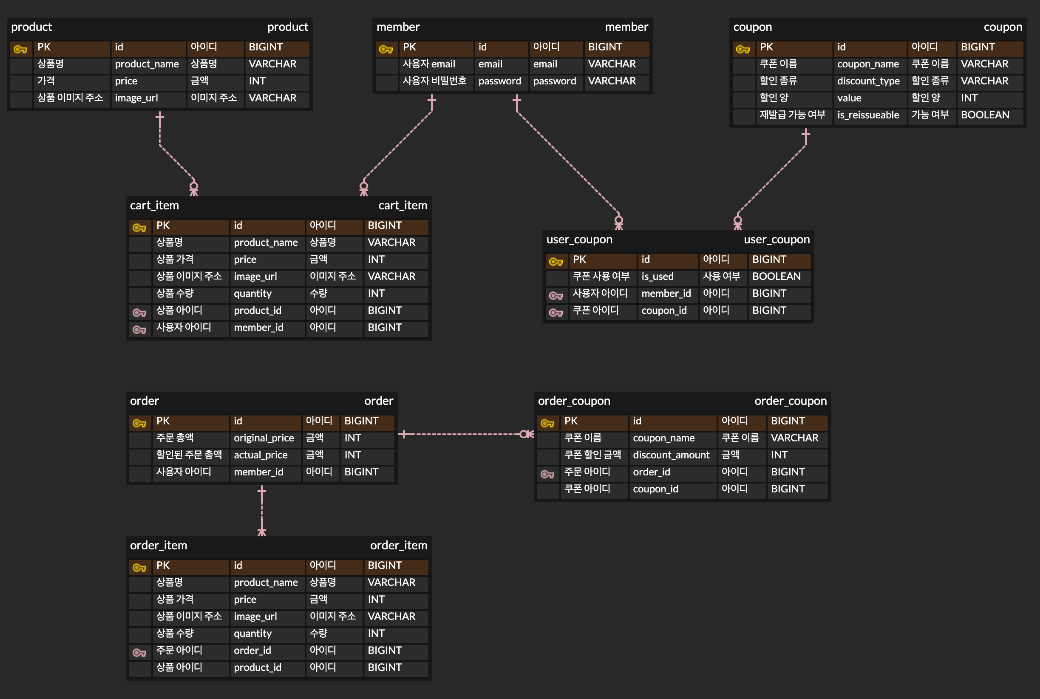
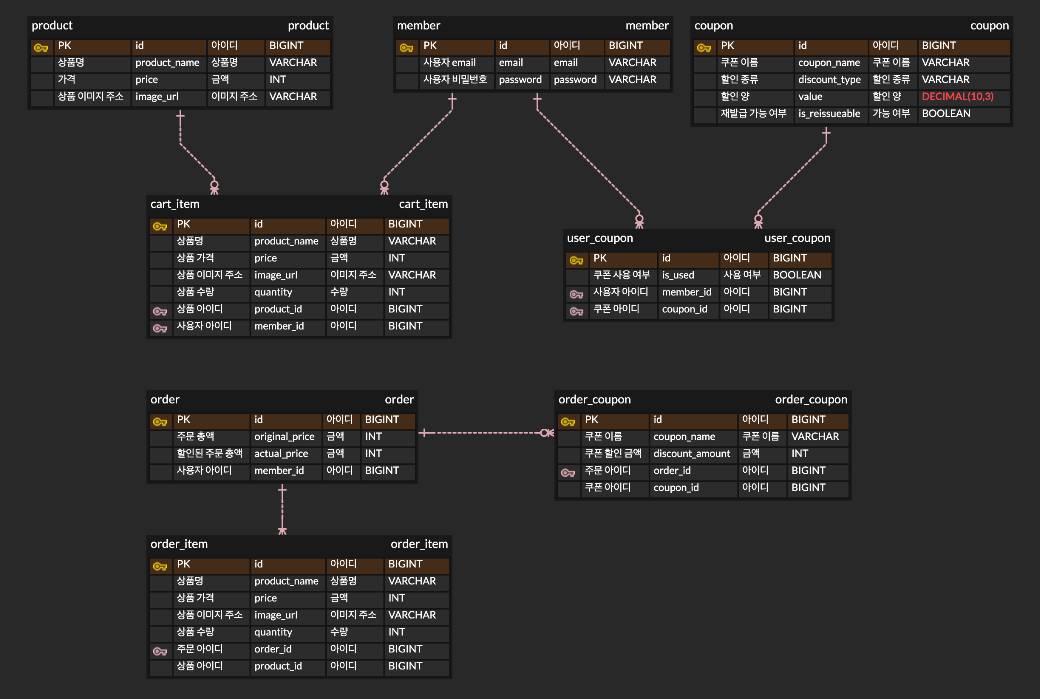
feat: 할인 쿠폰 구현

diff --git a/src/main/java/cart/domain/coupon/Coupon.java b/src/main/java/cart/domain/coupon/Coupon.java
@@ -1,0 +1,49 @@
+package cart.domain.coupon;
+
+import cart.domain.Money;
+import cart.domain.discountpolicy.DiscountPolicy;
+
+import java.util.Objects;
+
+public class Coupon {
+
+    private final Long id;
+    private final String name;
+    private final DiscountPolicy discountPolicy;
+    private final double discountValue;
+
+    public Coupon(String name, DiscountPolicy discountPolicy, double discountValue) {
+        this.id = null;
+        this.name = name;
+        this.discountPolicy = discountPolicy;
+        this.discountValue = discountValue;
+    }
+
+    public Coupon(Long id, String name, DiscountPolicy discountPolicy, double discountValue) {
+        this.id = id;
+        this.name = name;
+        this.discountPolicy = discountPolicy;
+        this.discountValue = discountValue;
+    }
+
+    public Money apply(Money money) {
+        return discountPolicy.apply(money, discountValue);
+    }
+
+    public Long getId() {
+        return id;
+    }
+
+    @Override
+    public boolean equals(final Object o) {
+        if (this == o) return true;
+        if (o == null || getClass() != o.getClass()) return false;
+        final Coupon coupon = (Coupon) o;
+        return Objects.equals(id, coupon.id);
+    }
+
+    @Override
+    public int hashCode() {
+        return Objects.hash(id);
+    }
+}

diff --git a/src/test/java/cart/domain/coupon/CouponTest.java b/src/test/java/cart/domain/coupon/CouponTest.java
@@ -1,0 +1,41 @@
+package cart.domain.coupon;
+
+import cart.domain.Money;
+import cart.domain.discountpolicy.AmountDiscountPolicy;
+import cart.domain.discountpolicy.RateDiscountPolicy;
+import org.junit.jupiter.api.DisplayName;
+import org.junit.jupiter.api.Test;
+
+import static org.assertj.core.api.Assertions.assertThat;
+
+class CouponTest {
+
+    @Test
+    @DisplayName("정량 할인 쿠폰을 적용한다.")
+    void use_amount_discount_coupon_test() {
+        // given
+        Money originalPrice = new Money(10000);
+        Coupon amountCoupon = new Coupon("1000원 할인 쿠폰", new AmountDiscountPolicy(), 1000);
+
+        // when
+        Money discountedPrice = amountCoupon.apply(originalPrice);
+
+        //then
+        assertThat(discountedPrice).isEqualTo(new Money(9000));
+    }
+
+    @Test
+    @DisplayName("정률 할인 쿠폰을 적용한다.")
+    void use_rate_discount_coupon_test() {
+        // give
+        Money originalPrice = new Money(10000);
+        Coupon rateCoupon = new Coupon("10퍼센트 할인 쿠폰", new RateDiscountPolicy(), 0.9);
+
+        // when
+        Money discountedPrice = rateCoupon.apply(originalPrice);
+
+        // then
+        assertThat(discountedPrice).isEqualTo(new Money(9000));
+    }
+
+}

diff --git a/README.md b/README.md
@@ -22,9 +22,11 @@
   - [ ] 주문시 카트의 상품 정보와 최신 상품 정보에 차이가 있으면 예외를 발생시킨다
   - [ ] 주문에 성공하면 카트에서 주문한 상품 정보를 제거한다
 
-- [ ] 쿠폰할인을 적용한다
+- [x] 쿠폰할인을 적용한다
   - 쿠폰은 정률할인, 정량할인이 있지만 정률할인만 우선적으로 구현한다 
-  - [ ] 정률할인 쿠폰은 금액의 일정 비율을 할인한다
+  - [x] 정률할인 쿠폰은 금액의 일정 비율을 할인한다
+  - [x] 정량할인 쿠폰은 금액의 일정 금액을 할인힌다
+    - 돈은 음수가 될 수 없다
 
 - [ ] 사용자는 쿠폰을 발급받을 수 있다
   - 사용자는 사용하지 않은 같은 종류의 쿠폰을 2개 이상 가질 수 없다
